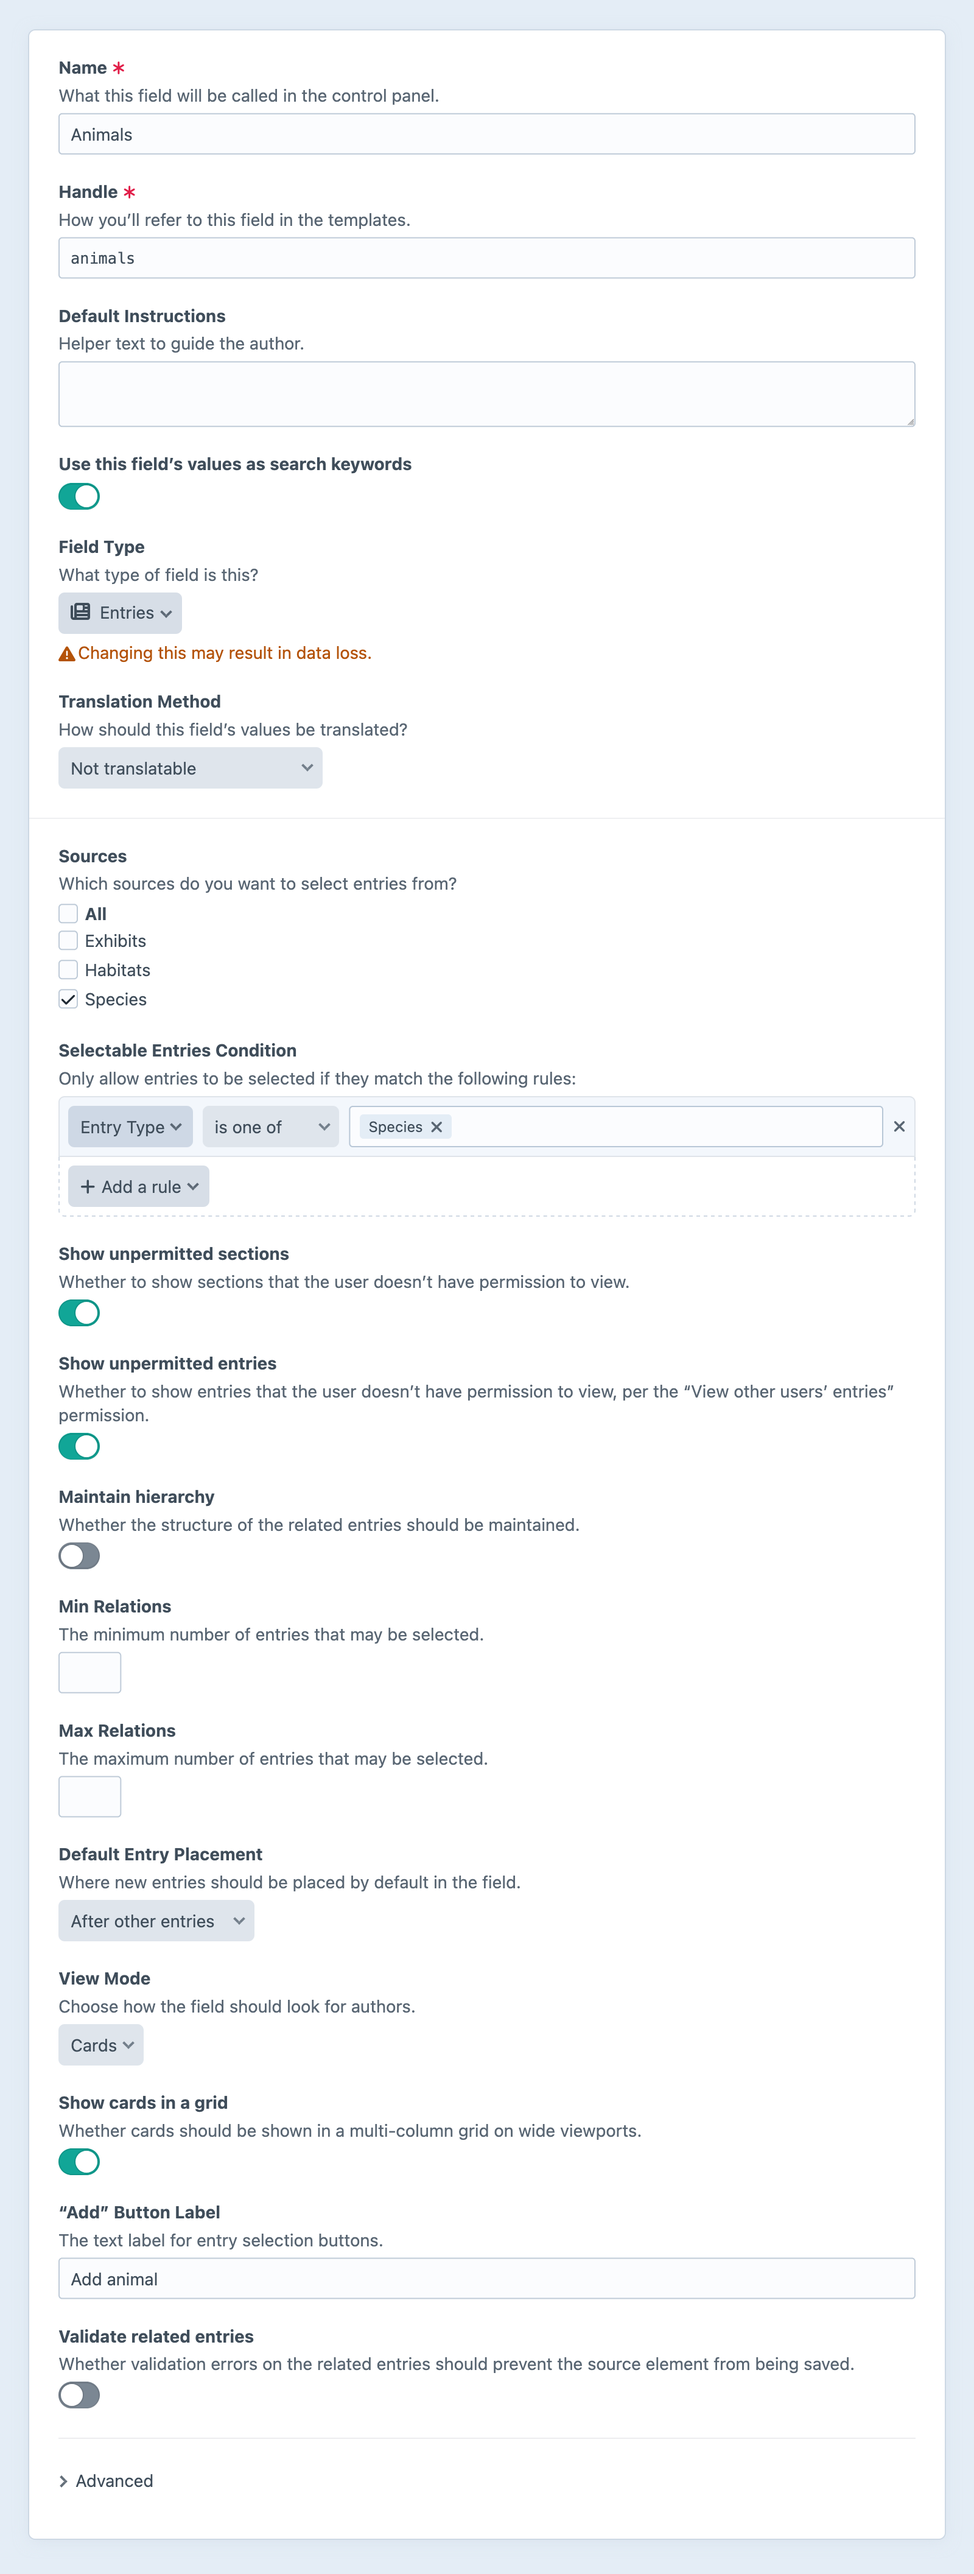
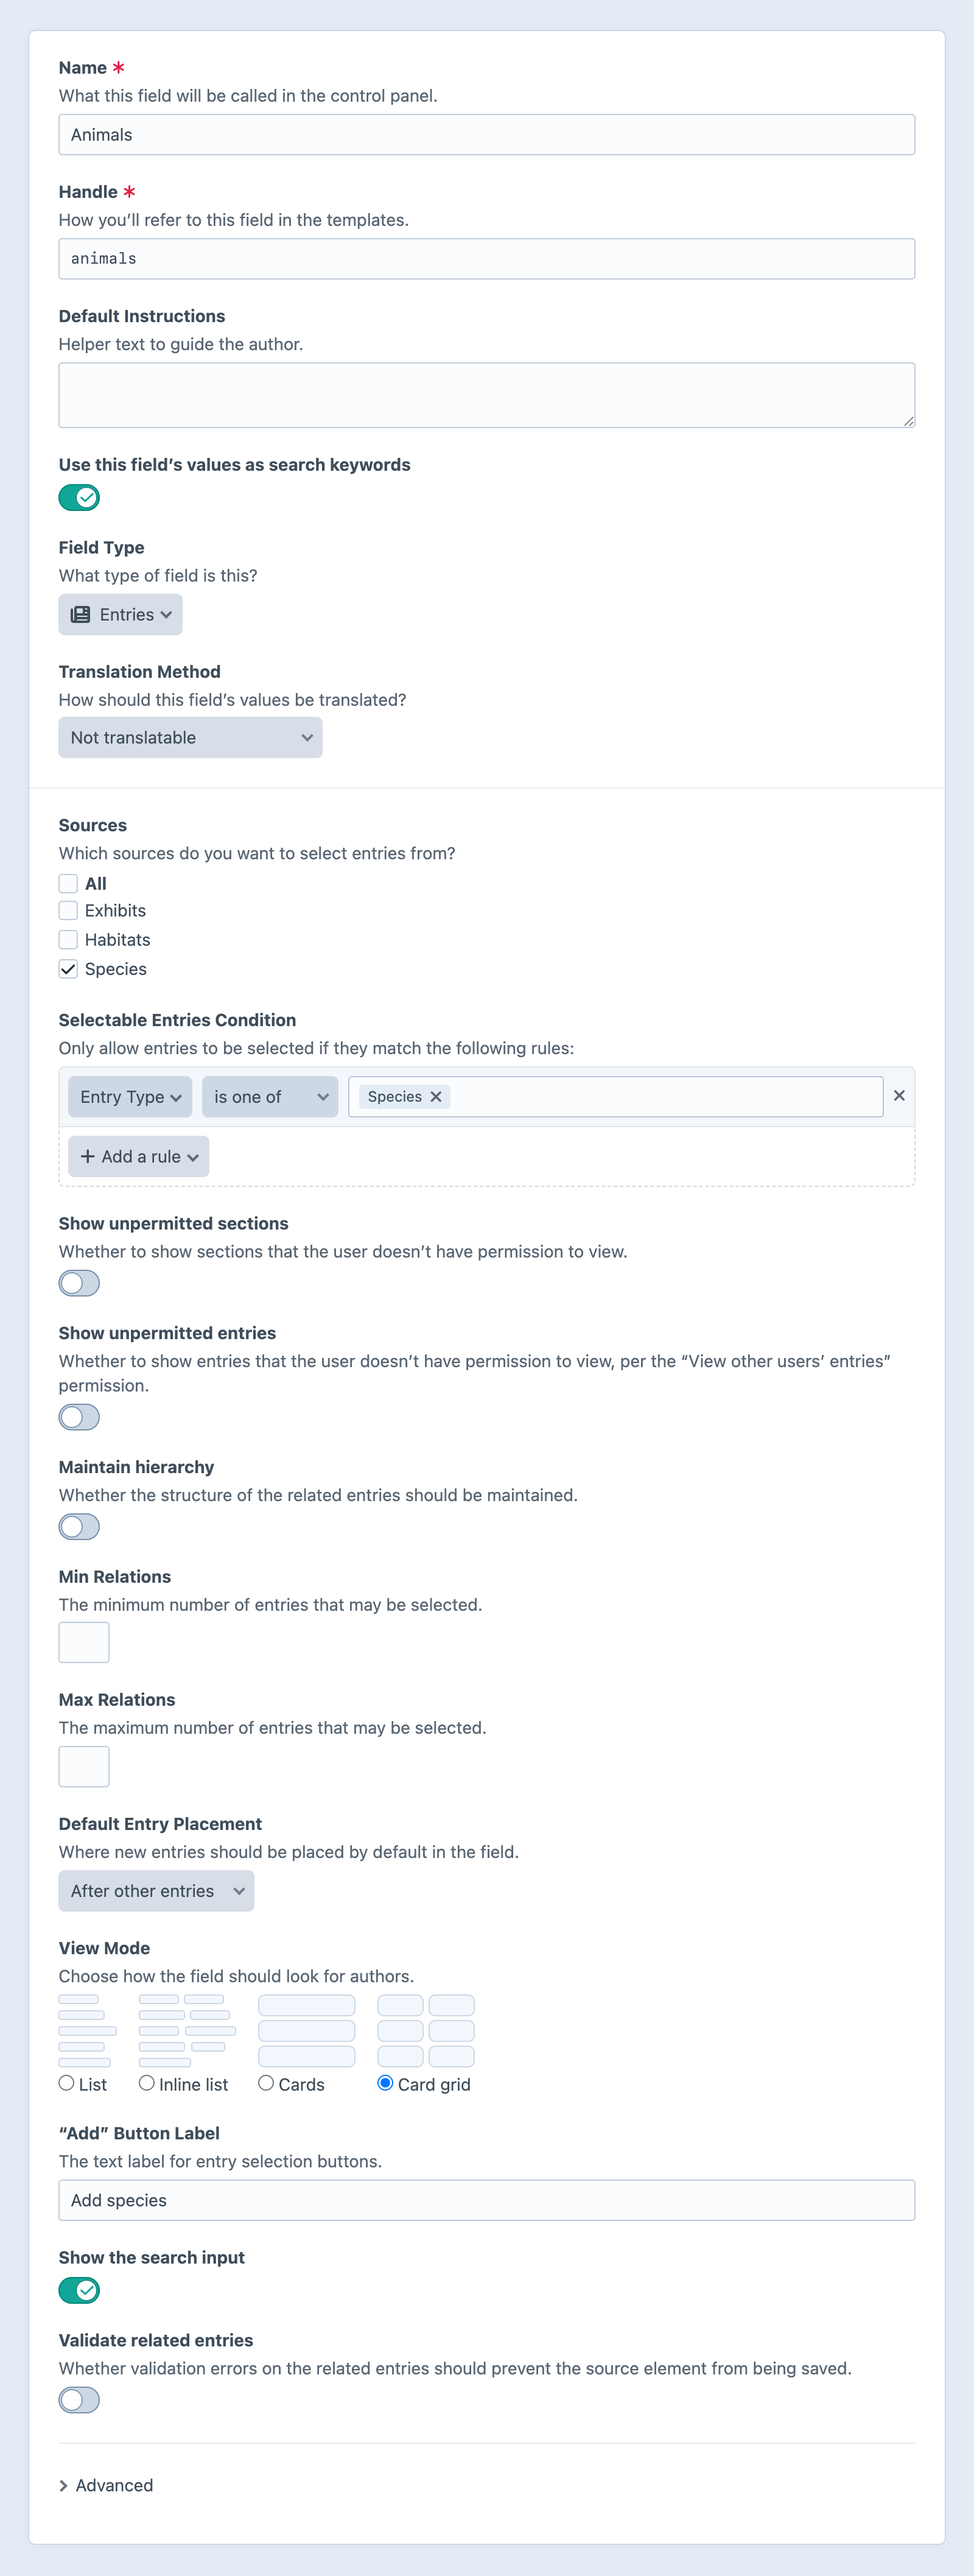
Matrix and entries field settings

diff --git a/docs/5.x/reference/field-types/matrix.md b/docs/5.x/reference/field-types/matrix.md
@@ -39,7 +39,7 @@ You can specify local overrides for each attached entry type’s **Name** and **
 #### Groups <Since ver="5.8.0" feature="Grouped entry types in Matrix fields" />
 
 Entry types are organized into named _groups_.
-Groups affect the structure of the **+ Add …** menu, for authors.
+Groups affect the structure of the menu (or menus, when horizontal space allows <Since ver="5.9.0" feature="Separate menus for each entry type group in Matrix fields" />) displayed to authors.
 
 ![Adding and organizing entry types in a Matrix field](../../images/fields-matrix-settings-entry-type-groups.png)
 
@@ -49,7 +49,7 @@ Choose how nested entries are propagated to other sites. This applies only to _n
 
 ### Site Settings <Badge text="New!" />
 
-Nested entries can have their own URIs and templates.
+Nested entries can have their own URLs and templates.
 
 ::: tip
 Incorporate the owner’s URI in a nested element by using `{owner.uri}` in its **URI Format** [object template](../../system/object-templates.md)!
@@ -71,16 +71,29 @@ The **Enable versioning for entries in this field** setting exposes the revision
 
 ### View Mode <Badge text="New!" />
 
+![The “view mode” setting on a Matrix field](../../images/fields-matrix-settings-view-mode.png)
+
 Choose how the nested elements are represented within the [field UI](#the-field):
 
-  - **As cards**: Read-only [element cards](../../system/elements.md#chips-cards) that surface nested field data.
-  - **As card grid**: Similar to **As cards**, but cards are limited in width and arranged in a grid. <Since ver="5.9.0" feature="The dedicated card grid Matrix view mode" />
-  - **As inline-editable blocks**: Manage nested entries as though they were part of the current element. In prior versions of Craft, this was the _only_ display option for Matrix fields.
-  - **As an element index**: A simplified [element index](../../system/elements.md#indexes) with sorting, searching, and filtering controls.
+  - **Cards**: Read-only [element cards](../../system/elements.md#chips-cards) that surface nested field data.
+  - **Card grid**: Similar to **As cards**, but cards are limited in width and arranged in a grid. <Since ver="5.9.0" feature="The dedicated card grid Matrix view mode" />
+  - **Blocks**: Manage nested entries as though they were part of the current element. Historically, this was the _only_ display option for Matrix fields.
+  - **Index**: A simplified [element index](../../system/elements.md#indexes) with sorting, searching, and filtering controls.
+    This view mode includes additional options:
+      - **Include Table View**: Allow authors to toggle between the default card view and a traditional table view.
+        - **Default Table Columns**: Select which attributes and fields are visible when using the table mode. (To change what attributes are displayed on _cards_, refer to that entry type’s settings.)
+        - **Default View Mode**: Set the _default_ presentation of elements in the index. Authors can always switch between them, later.
 
-    When using the element index view mode, you can enabled **Include Table View** to allow authors to toggle between the card view and the traditional table view. Enabling the table view reveals controls for the **Default Table Columns**, and the index’s **Default View Mode**.
+::: warning
+Some settings were consolidated into **View Mode** controls in [5.9.0](repo:craftcms/cms/releases/tag/5.9.0). Prior, the **As cards** view mode had a nested setting that controlled whether the cards were stacked or presented in a grid.
+:::
 
 ### “New” Button Label
+
+::: tip
+This setting only applies when there is not enough horizontal space to display a button per [group](#groups) of entry types.
+When grouped, each button uses its group’s label.
+:::
 
 By default, the button authors use to create nested entries will be labeled **New entry**. You can override this label with one that better suits the intended content.
 
@@ -88,7 +101,8 @@ By default, the button authors use to create nested entries will be labeled **Ne
 
 The interface of a Matrix field depends on its selected [view mode](#view-mode). 
 
-Traditionally, Matrix fields have used the **As inline-editable blocks** view mode, which makes the nested entries appear as though they are a repeating or modular region the main element’s form. An empty Matrix field shows a single button, which will either immediately create a new nested entry (if there is only a single available entry type), or present a menu of entry types to select from:
+Traditionally, Matrix fields have used the **Blocks** view mode, which makes the nested entries appear as though they are a repeating or modular region the main element’s form.
+An empty Matrix field shows one or more buttons, which will either immediately create a new nested entry (if there is only a single available entry type), or present a menu of entry types to select from:
 
 ![An empty Matrix field’s entry types](../../images/fields-matrix-inline-empty.png)
 

diff --git a/docs/5.x/reference/field-types/entries.md b/docs/5.x/reference/field-types/entries.md
@@ -56,7 +56,7 @@ When a single source is selected, you can also configure these settings:
 
 Additional settings are available under the **Advanced** toggle:
 
-- **Allow self relations** — Whether the current entry (with this field) should be allowed to select itself as a relation.
+- **Allow self relations** — If this field is added to an entry type field layout, should the author be allowed to select the entry they are editing as a relationship to itself?
 
 ### Multi-Site Settings
 
